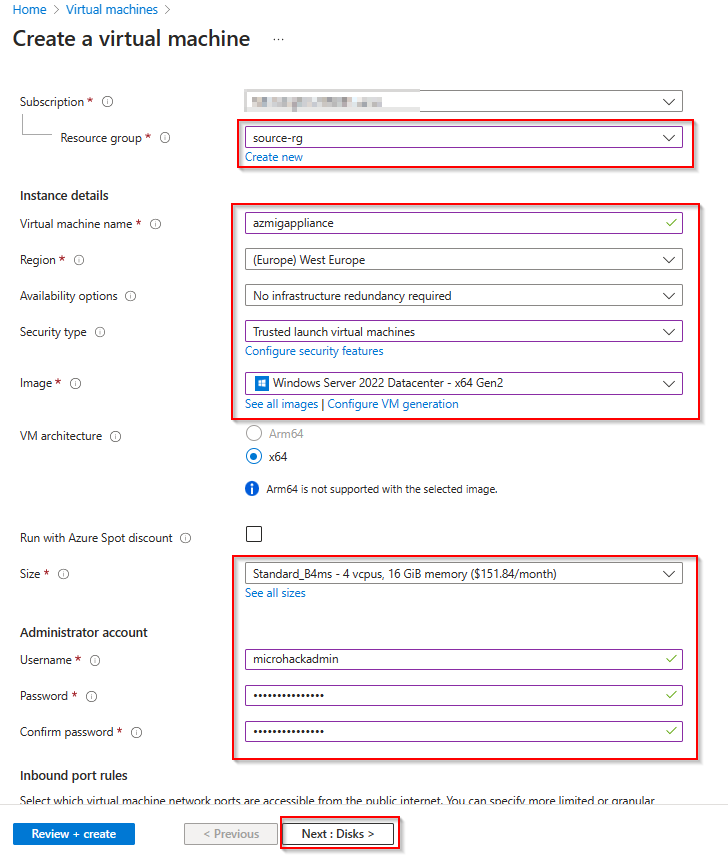
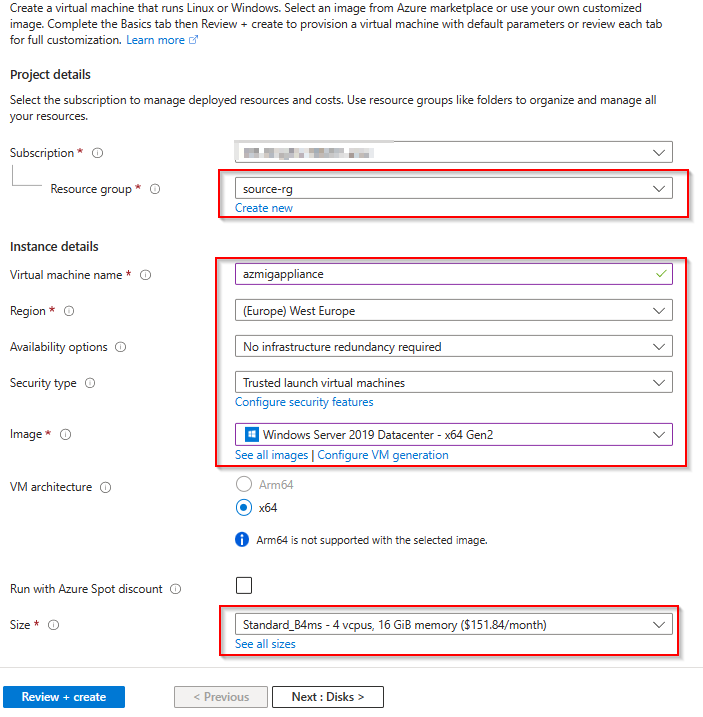
Update challange 2 - solution

diff --git a/03-Azure/01-03-Infrastructure/06_Migration_Datacentre_Modernization/walkthrough/challenge-2/solution.md b/03-Azure/01-03-Infrastructure/06_Migration_Datacentre_Modernization/walkthrough/challenge-2/solution.md
@@ -24,41 +24,76 @@ Your previousley created Azure Migrate project should be preselected.
 [image](./img/AzMig4.png)
 
 
-### **Task 2: Deploy Azure Migrate Appliance**
+### **Task 2: Create and prepare Windows Server 2019 for the Azure Migrate Appliance**
 
-To start physical server discovery you must install the Azure Migrate Appliance on your on-premises. The Azure Migrate Appliance can be downloaded as a OVA or VHD template or you can download a ZIP file containing a PowerShell script to install it on a already existing server. For the purpose of this MicroHack we will install the Azure Migrate Appliance via the PowerShell script on a Windows Server 2022 system.
+To start physical server discovery you must install the Azure Migrate Appliance on your on-premises. The Azure Migrate Appliance can be downloaded as a OVA or VHD template or you can download a ZIP file containing a PowerShell script to install it on a already existing server. For the purpose of this MicroHack we will install the Azure Migrate Appliance via the PowerShell script on a Windows Server 2019 system.
 
 💡 Please make sure to check the [prerequisites](https://learn.microsoft.com/en-us/azure/migrate/tutorial-discover-physical#prerequisites) of the Azure Migrate Appliance.
 
 In the Azure Portal select *Virtual machines* from the navigation pane on the left. Select *Create -> Azure virtual machine*
+
 ![image](./img/AzMigApp1.png)
 
-Under Basics select the *source-rg* Resource Group and provide a name for the server. Select *Windows Server 2022 Datacenter - x64 Gen2* for the Image.
+Under Basics select the *source-rg* Resource Group and provide a name for the server. Select *Windows Server 2019 Datacenter - x64 Gen2* for the Image.
+
 ![image](./img/AzMigApp2.png)
 
 💡 For the Username and Password you can either select a combination of your choice or check the secrets within the KeyVault.
 
 Accept the default disk settings and click next to select the *Networking* tab. Select the *source-vnet* Virtual Network, select the *source-subnet* Subnet and make sure to select *None* for the Public IP and NIC network security group.
+
 ![image](./img/AzMigApp3.png)
 
 Accept the default settings for the remaining tabs, select *Review + create* and click *Create*.
+
 ![image](./img/AzMigApp4.png)
 
 Wait until the deployment has been successfully completed and select *Go to resource*
+
 ![image](./img/AzMigApp5.png)
 
-Select *Bastion* from the navigation pane on the left, provide the credentials to login to the Azure Migrate Appliance VM and select *Connect*. A new browser tab should open with a remote session to the Windows Server 2022 system.
+Select *Bastion* from the navigation pane on the left, provide the credentials to login to the Azure Migrate Appliance VM and select *Connect*. A new browser tab should open with a remote session to the Windows Server 2019 system.
+
 ![image](./img/AzMigApp6.png)
 
 💡 You can also select *Password from Azure KeyVault* under *Authentication Type* if you set the password during VM creation to match the secret stored in the KeyVault.
 
-Open Microsoft Edge on the Windows Server 2022 system and navigate and login to the [Azure Portal](https://portal.azure.com).
+### **Task 2: Deploy the Azure Migrate Appliance**
+
+Open Microsoft Edge on the Windows Server 2019 system and navigate and login to the [Azure Portal](https://portal.azure.com).
+
 ![image](./img/AzMigApp7.png)
 
+In the search bar enter *Azure Migrate* and select Azure Migrate from the list of services
+![image](./img/AzMig1.png)
 
+Select *Servers, databases and web apps*, make sure that the previousley created Azure Migrate project is selected and klick *Discover*
+![image](./img/Discover1.png)
 
+Select *Physical or other (AWS, GCP,Xen, etc.)* from the *Are your servers virtualized* drop down. Enter a name into the *Name your appliance* field and clicke *Generate*. Wait until the Project key has been created. Copy the Project key and klick *Download*, to download the ZIP file containing the PowerShell script to install the Azure Migrate Appliance.
 
+![image](./img/Discover2.png)
 
+Open the folder containing the download and extract the ZIP file.
+
+![image](./img/Discover3.png)
+
+Start an evelvated PowerShell session and change the PowerShell directory to the folder where the contents have been extraceted.
+Run the script named AzureMigrateInstaller.ps1 and select *A* to confirm script execution.
+
+![image](./img/Discover4.png)
+
+Select Option 3 for *Physical or other (AWS, GCP, Xen, etc.)*
+
+![image](./img/Discover5.png)
+
+Select Option 1 for *Azure Public*
+
+![image](./img/Discover6.png)
+
+Select Option 1 for *public endpoint* and confirm you selection.
+
+![image](./img/Discover7.png)
 
 
 
